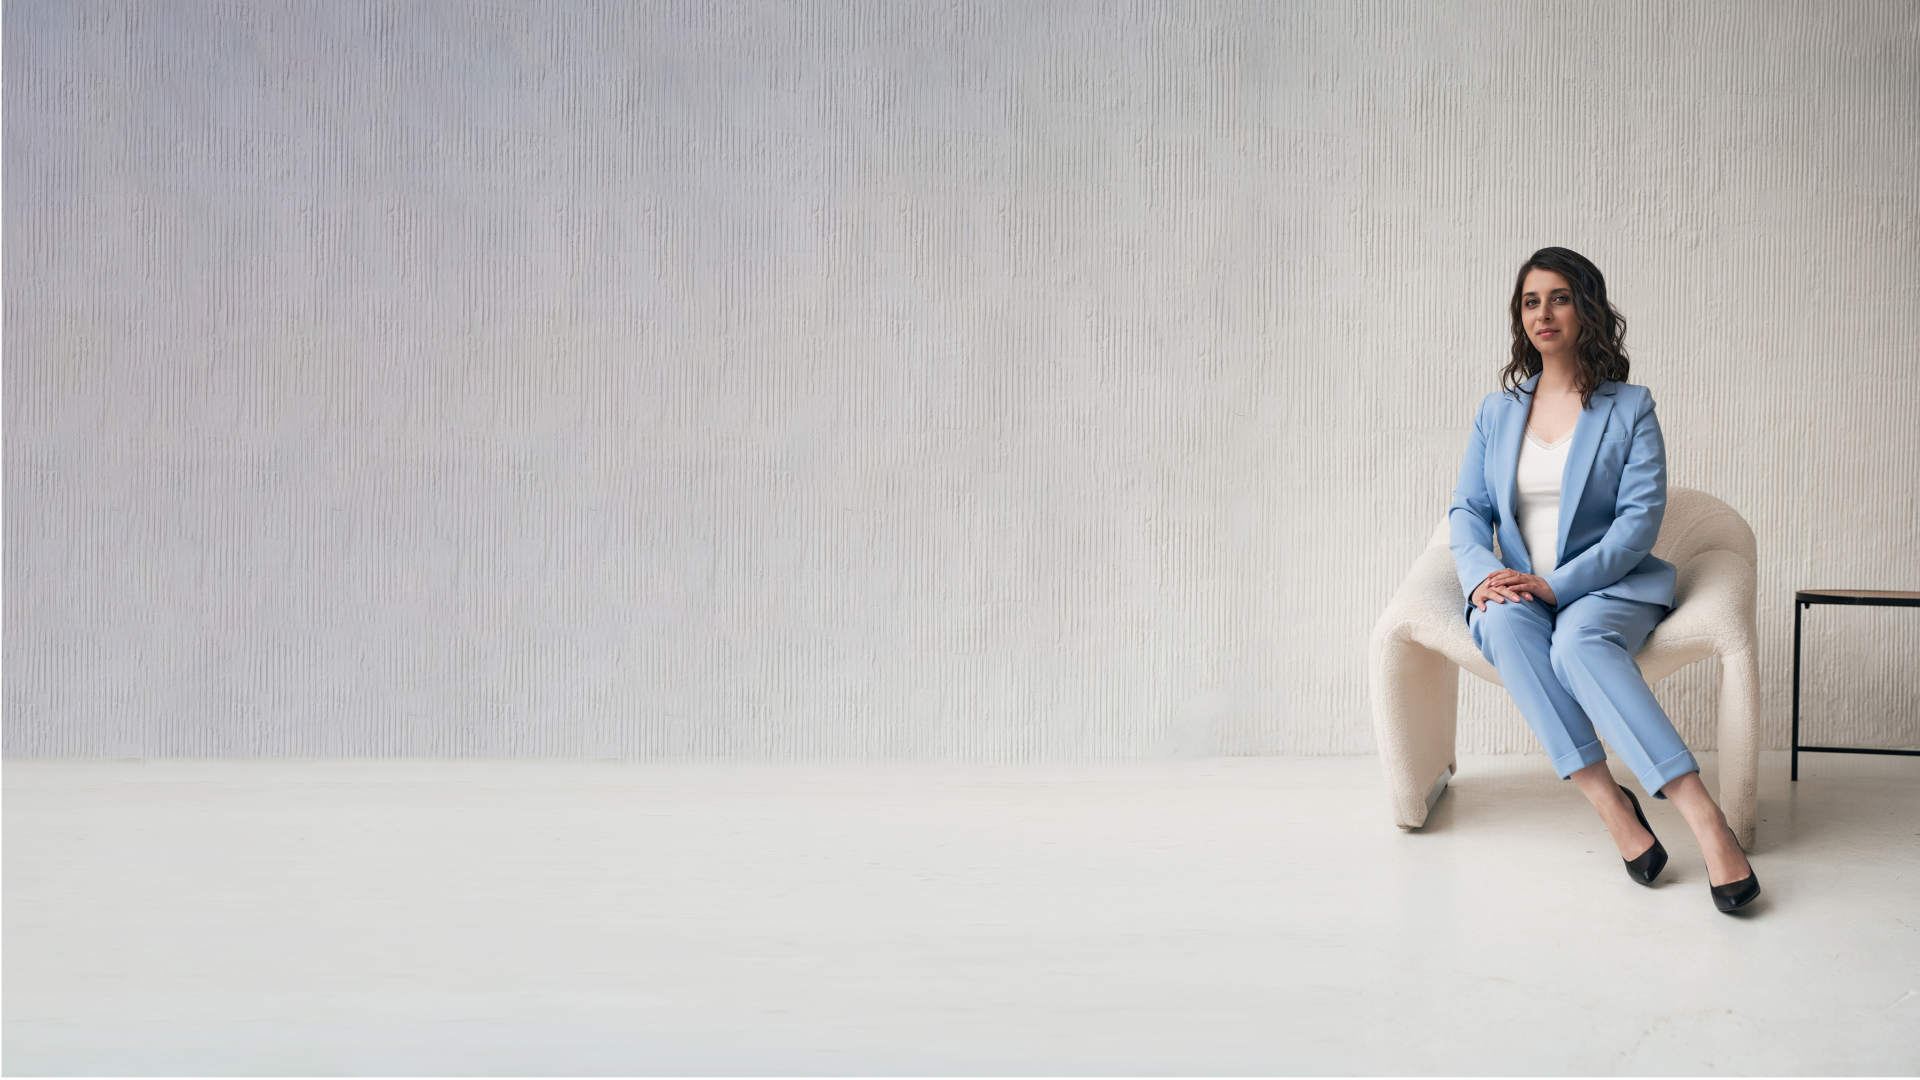
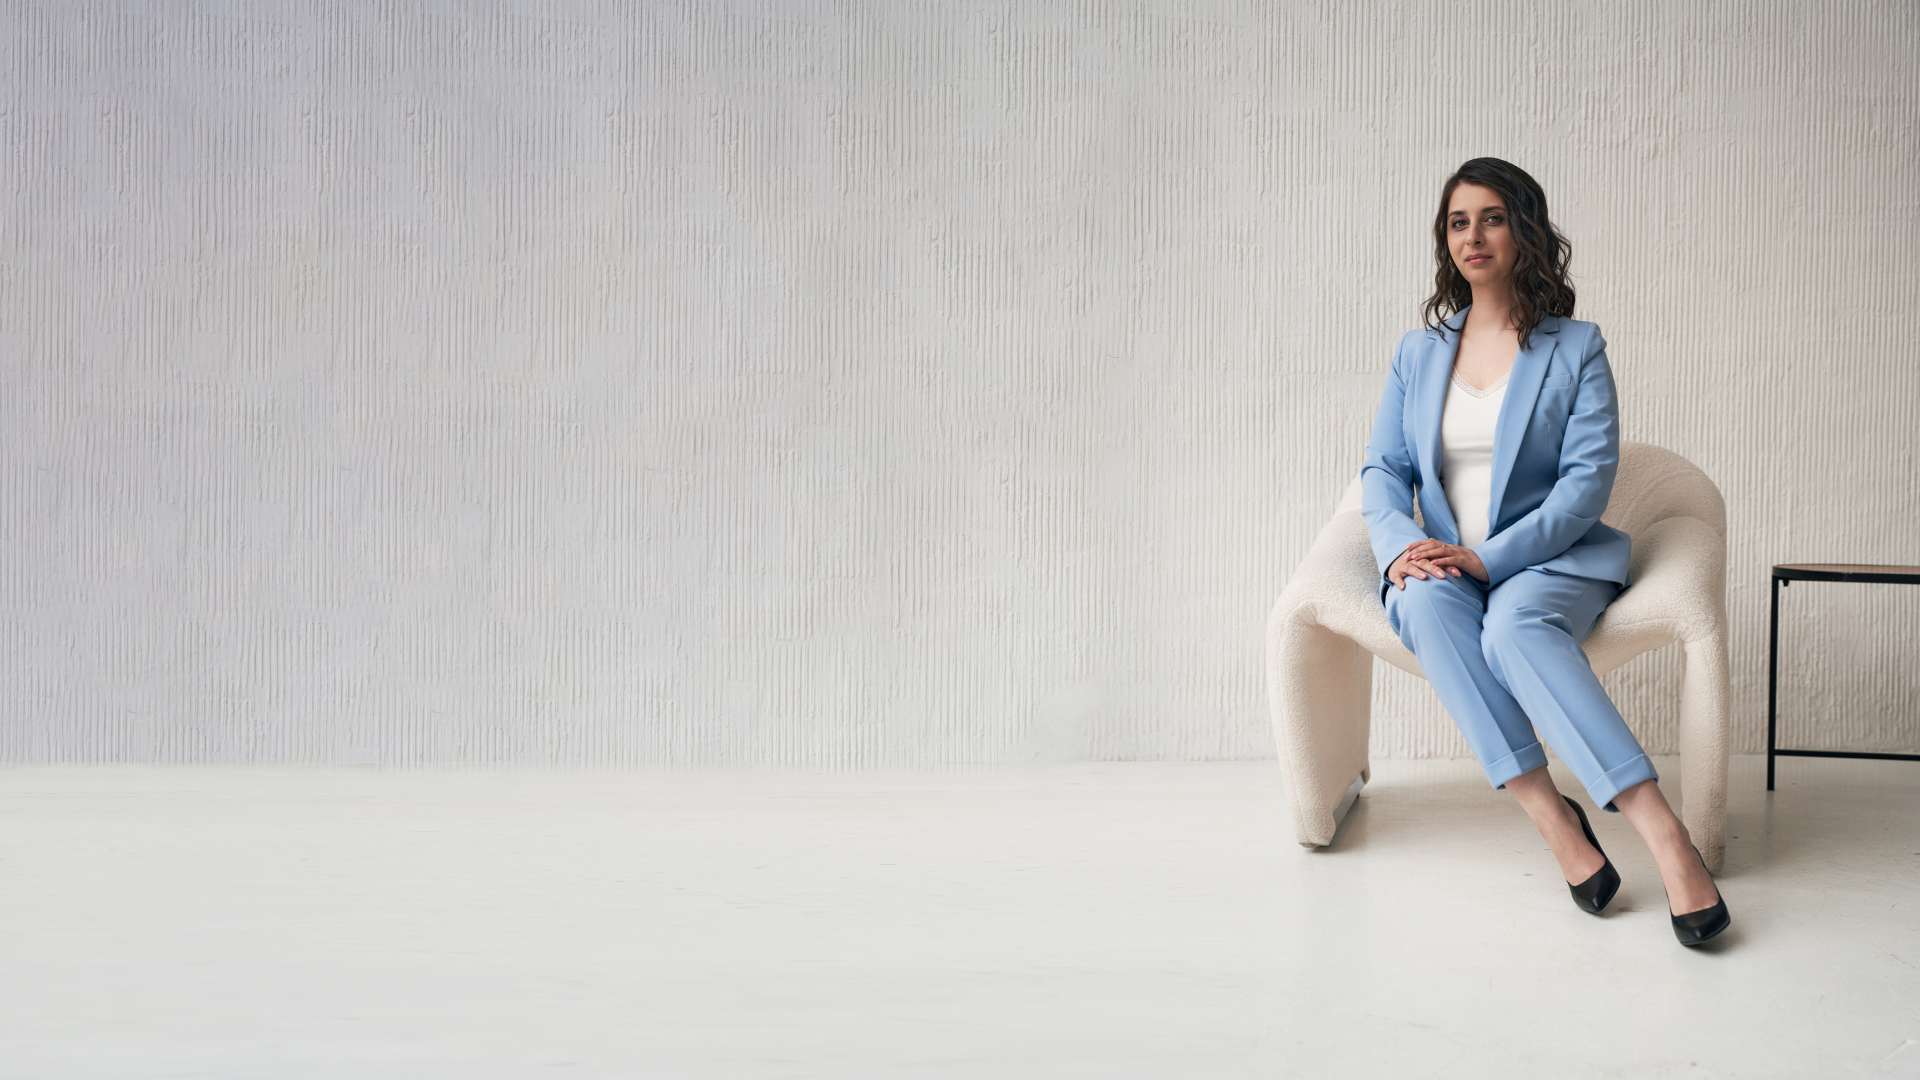
section About
work on section, adaptiv, text

diff --git a/index.html b/index.html
@@ -67,7 +67,27 @@
     </section>
     <section class="about">
         <div class="contain wrap">
-            <h2>Обо мне</h2>
+            <div class="about__card">
+                <h2>Обо мне</h2>
+                <div class="about__card_txt shadow">
+                    <p>
+                        Каждый бухгалтер должен быть юристом, но не каждый юрист сможет быть
+                        бухгалтером! В этом моя ценность как специалиста!
+                    </p>
+                    <p>
+                        Я - Оксана. Я практикующий юрист, бухгалтер, налоговый консультант. Член Ассоциации Налоговых
+                        Косультантов России, Института профессиональных бухгалтеров России. Большую часть моих
+                        клиентов
+                        средставляют компании России и Кыргызстана.
+                    </p>
+                    <p>
+                        Профессионально владению знаниями
+                        законодательства
+                        обеих стран, чем успешно помогаю бизнесу в построении бизнес-моделей, релокации и адаптации
+                        бизнеса. Оказываю услуги по бухгалтерскому и юридическому сопровождению.
+                    </p>
+                </div>
+            </div>
         </div>
     </section>
     <section class="services">

diff --git a/css/style.css b/css/style.css
@@ -182,9 +182,37 @@ header {
 }
 
 .about {
-  background: url(../img/about_bg.png) 0 0 / cover no-repeat;
+  background: url(../img/about_bg.png) 0 0 / 100% auto no-repeat;
   height: 100vh;
-  /* margin-top: 2vh; */
+  position: relative;
+}
+
+.about__card {
+  position: absolute;
+  top: 7vh;
+}
+
+.about__card_txt {
+  position: absolute;
+  right: -140px;
+  top: 20vh;
+  width: 900px;
+  padding: 25px;
+  border-radius: 15px;
+  background: rgba(255, 255, 255, 0.5);
+  font-size: 18px;
+  font-style: italic;
+  font-weight: 400;
+  line-height: 149.523%;
+  text-indent: 20px;
+}
+
+.about__card_txt p {
+  margin-bottom: 15px;
+}
+
+.about__card_txt p:last-child {
+  margin-bottom: 0;
 }
 
 /* .services {
@@ -623,6 +651,19 @@ header {
   .main__button {
     padding: 13px 70px;
   }
+  .about__card_txt {
+    width: 600px;
+    padding: 20px;
+    border-radius: 15px;
+    font-size: 15px;
+  }
+  .about__card_txt p {
+    margin-bottom: 12px;
+  }
+
+  .about__card_txt p:last-child {
+    margin-bottom: 0;
+  }
   .services__column {
     width: 800px;
   }
@@ -689,7 +730,18 @@ header {
     font-size: 9px;
     margin-right: 4px;
   }
+  .about__card_txt {
+    width: 480px;
+    padding: 15px;
+    font-size: 13px;
+  }
+  .about__card_txt p {
+    margin-bottom: 10px;
+  }
 
+  .about__card_txt p:last-child {
+    margin-bottom: 0;
+  }
   .logo {
     font-size: 28px;
   }
